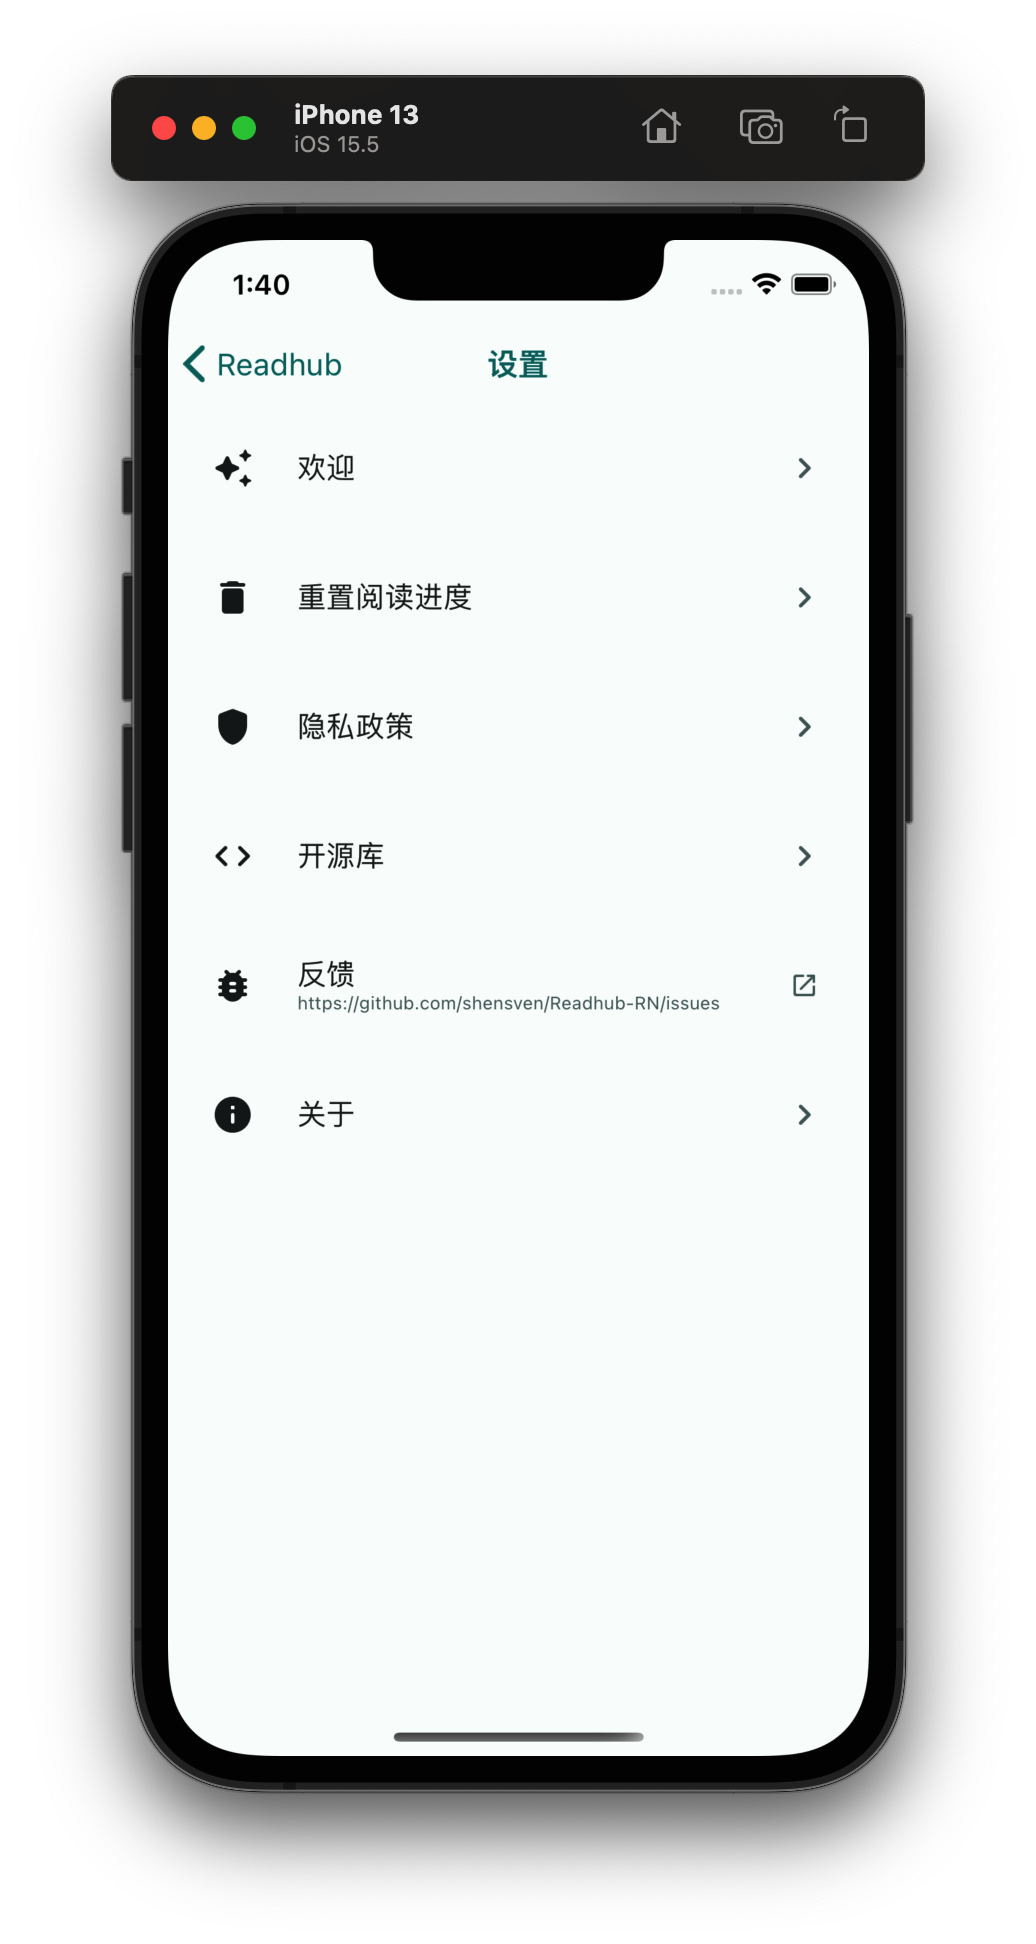
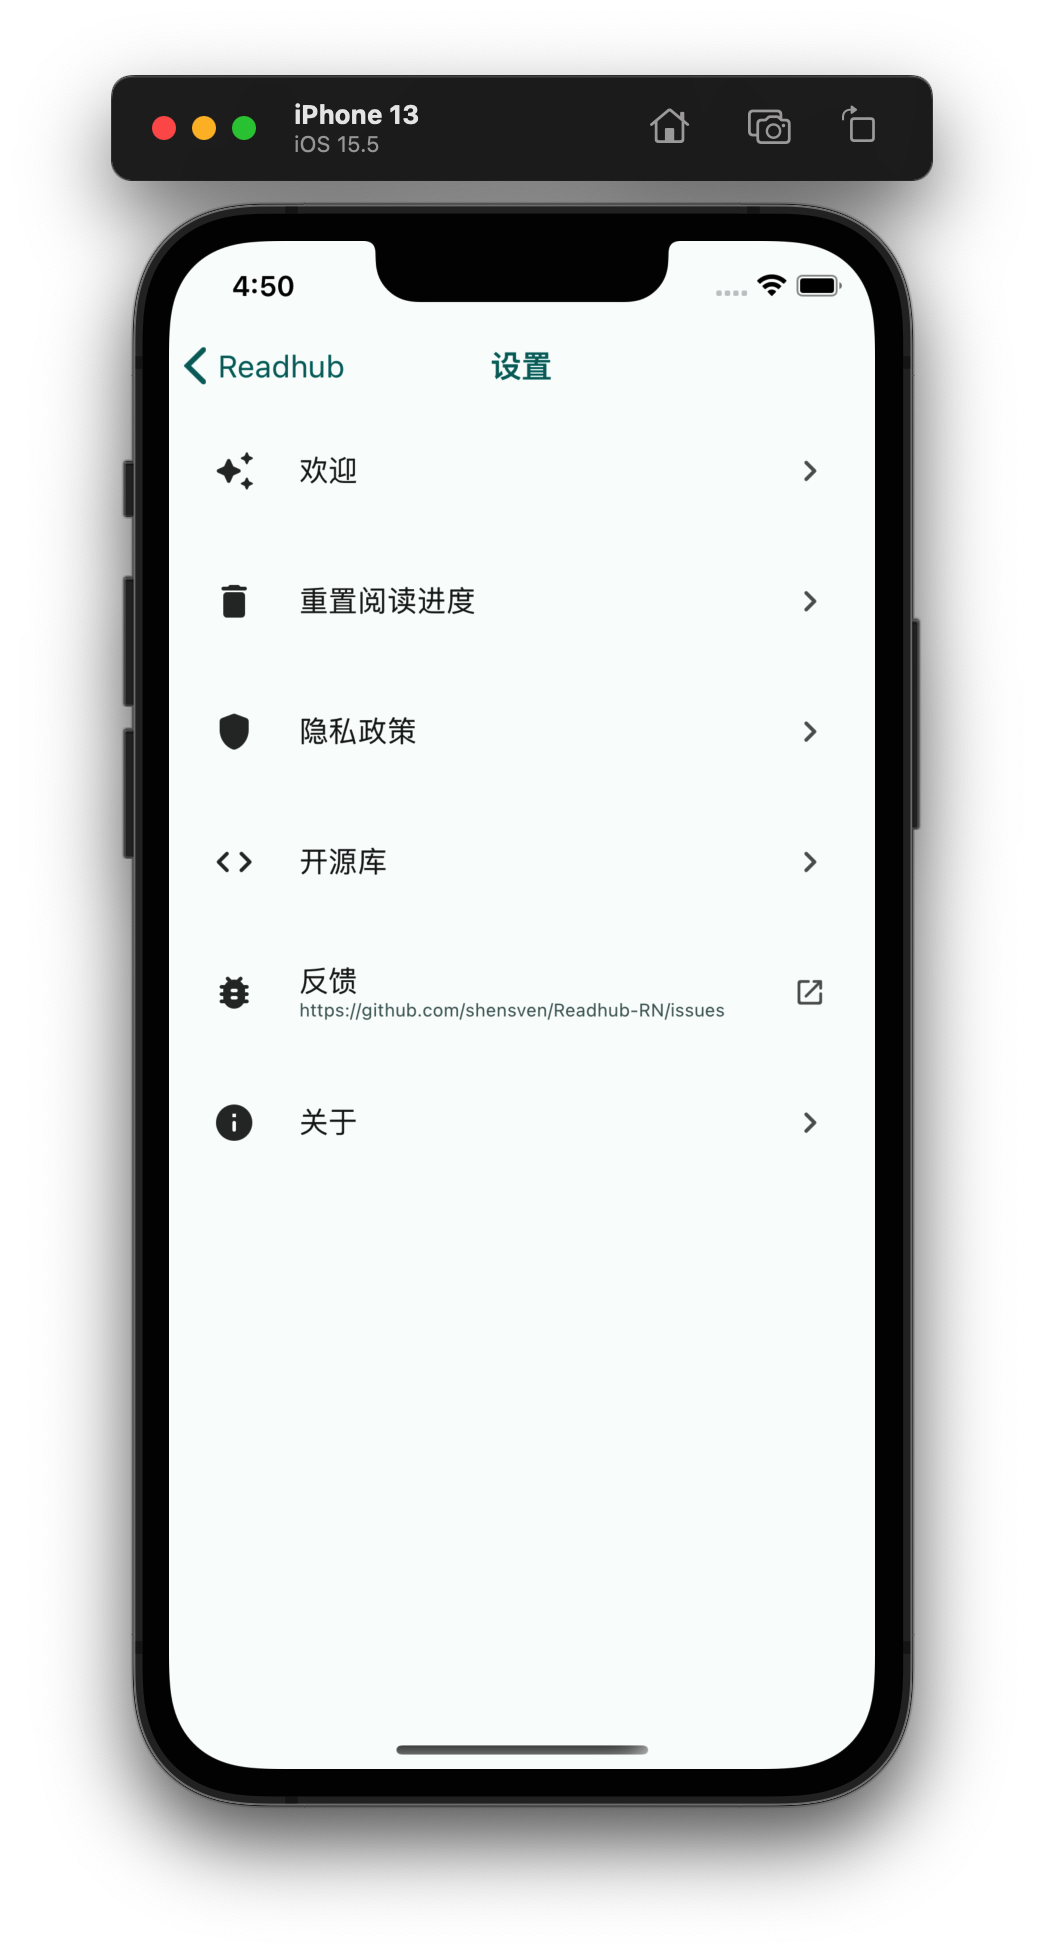
chore: update README

diff --git a/README.md b/README.md
@@ -14,9 +14,9 @@
 
 SvenFE implementation of [Readhub](https://readhub.cn) in React Native, Currently in refactoring...
 
-|                         iOS Home                         |                     iOS Topic Detail                     |                       Android Home                       |                   Android Topic Detail                   |
-| :------------------------------------------------------: | :------------------------------------------------------: | :------------------------------------------------------: | :------------------------------------------------------: |
-| ![Screenshot 1](src/assets/Screenshots/screenshot-1.png) | ![Screenshot 2](src/assets/Screenshots/screenshot-2.png) | ![Screenshot 4](src/assets/Screenshots/screenshot-4.png) | ![Screenshot 5](src/assets/Screenshots/screenshot-5.png) |
+|                           Home                           |                       Topic Detail                       |                         Settings                         |
+| :------------------------------------------------------: | :------------------------------------------------------: | :------------------------------------------------------: |
+| ![Screenshot 1](src/assets/Screenshots/screenshot-1.png) | ![Screenshot 2](src/assets/Screenshots/screenshot-2.png) | ![Screenshot 3](src/assets/Screenshots/screenshot-3.png) |
 
 ## 📦 DISTRIBUTION
 
